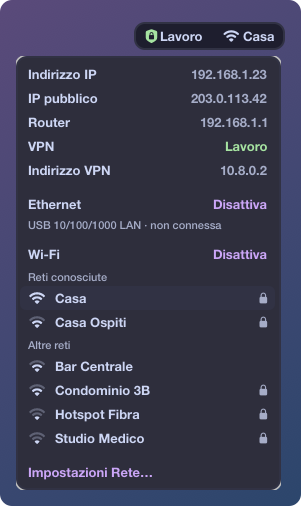
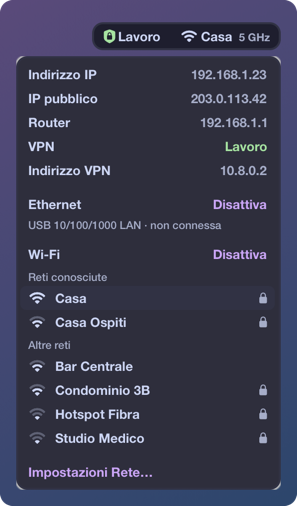
Refactor network and audio plugins to include band information and improve notch handling
- Updated network plugin to display Wi-Fi band alongside SSID and improved VPN handling.
- Enhanced audio plugin to show names of audio devices and their battery status.
- Adjusted notch plugin to account for additional items affected by the display notch.
- Modified README to reflect changes in display behavior on MacBook with notch.
- Updated various scripts and configuration files to ensure compatibility with new features.

diff --git a/README.md b/README.md
@@ -138,11 +138,12 @@ cambiare `PRIMARY`.
 ![La barra sul MacBook](screenshots/notch.png)
 
 Sul display del MacBook il notch copre il centro della barra, e gli elementi di destra finirebbero
-sotto. Lì CPU e GPU spariscono e resta solo la memoria, della VPN resta solo lo scudo e del
-calendario solo l'orario del prossimo evento, colorato secondo quanto manca (vedi sotto); un clic
-apre gli stessi popup. Gli altri
-monitor mostrano tutto. `plugins/notch.sh` riconosce i display con il notch e sposta gli elementi
-quando colleghi o scolleghi un monitor; quali elementi spariscono lo decide la sua lista `ITEMS`.
+sotto. Lì CPU e GPU spariscono e resta solo la memoria; dell'audio, della rete e della VPN restano
+le icone, con la batteria dei dispositivi e la banda del Wi-Fi; del calendario solo l'orario del
+prossimo evento, colorato secondo quanto manca (vedi sotto), e dell'orologio solo l'ora. Un clic
+apre gli stessi popup. Gli altri monitor mostrano tutto, con i nomi interi.
+`plugins/notch.sh` riconosce i display con il notch e sposta gli elementi quando colleghi o
+scolleghi un monitor; quali elementi spariscono lo decide la sua lista `ITEMS`.
 
 Se la barra è vuota o mancano i workspace:
 
@@ -189,14 +190,17 @@ può non essere quello di AeroSpace.
 ![La rete](screenshots/network.png)
 
 La rete mostra il nome del Wi-Fi, `Ethernet` quando c'è un cavo, `Non connesso` (giallo) o
-`Wi-Fi off` (rosso). Da macOS 14.4 il nome del Wi-Fi è oscurato in `networksetup`, `ipconfig` e
+`Wi-Fi off` (rosso). Dopo il nome del Wi-Fi, più piccola e grigia, c'è la banda: `2,4 GHz`,
+`5 GHz` o `6 GHz`; sul MacBook c'è solo l'icona, diversa per ciascuno stato, con la banda. Da
+macOS 14.4 il nome del Wi-Fi è oscurato in `networksetup`, `ipconfig` e
 `system_profiler`: `plugins/network.sh` lo legge dall'ultima scansione salvata nella configurazione
-di sistema. Se un aggiornamento di macOS chiude anche questa strada, al posto del nome compare
+di sistema, che ha anche il canale e quindi la banda. Se un aggiornamento di macOS chiude anche questa strada, al posto del nome compare
 `Wi-Fi`. Con una VPN attiva, nella stessa pillola, prima della rete come in macOS, compaiono uno
 scudo verde e il suo nome: quello delle VPN di Impostazioni di Sistema e delle app VPN (WireGuard,
 Tailscale…), che macOS elenca in `scutil --nc list`, oppure `VPN` per quelle che macOS non conosce
-ma che si vedono dal loro tunnel (`utun`); sul MacBook c'è solo lo scudo. La barra si aggiorna subito quando cambia la connessione principale e comunque ogni 30
-secondi: la VPN può comparire o sparire con quel ritardo.
+ma che si vedono dal loro tunnel (`utun`); sul MacBook c'è solo lo scudo. La barra si aggiorna
+subito quando cambia la connessione principale e comunque ogni 30 secondi: la VPN può comparire o
+sparire con quel ritardo.
 Un clic sulla rete o sulla VPN apre l'indirizzo IP del Mac, quello pubblico, il router e la VPN, con
 il suo indirizzo. L'IP pubblico lo chiede a [ipify](https://www.ipify.org) a ogni apertura del popup:
 con la VPN è quello della VPN. Finché non arriva quello nuovo resta il precedente, in grigio se nel
@@ -266,8 +270,7 @@ simbolo, hanno il loro con un altoparlante o un microfono. Se sono lo stesso dis
 esempio cuffie Bluetooth, compare solo quello di uscita, e se ha i due simboli con l'altoparlante e
 il microfono affiancati. Lo stesso vale per altoparlanti e microfono del Mac, che diventano il Mac
 stesso, con il suo nome: per esempio `MacBook Pro`, la parte comune a `Altoparlanti MacBook Pro` e
-`Microfono MacBook Pro`. I nomi più lunghi di 14 caratteri si fermano all'ultima parola che ci sta,
-con i puntini (`AirPods Pro…` per `AirPods Pro di Luca`); nel popup sono interi. Dopo il nome dei
+`Microfono MacBook Pro`. Sul MacBook ci sono solo le icone, con la batteria. Dopo il nome dei
 dispositivi Bluetooth c'è la batteria, se macOS la
 conosce: un'icona col livello (rossa dal 20% in giù) e la percentuale, più piccole e grigie del nome
 e aggiornate ogni due minuti. Per gli auricolari conta il lato più scarico.
@@ -335,7 +338,7 @@ SketchyBar Calendar in Impostazioni di Sistema → Privacy e sicurezza → Calen
 
 I testi seguono la lingua del Mac (italiano o inglese, per le altre lingue inglese) e gli orari il
 formato della sua regione, 12 o 24 ore compreso. Anche l'orologio mostra il giorno della settimana
-nella lingua del Mac (`mer 30/09  14:30`).
+nella lingua del Mac (`mer 30/09  14:30`); sul MacBook solo l'ora.
 
 ![L'orologio](screenshots/clock.png)
 
